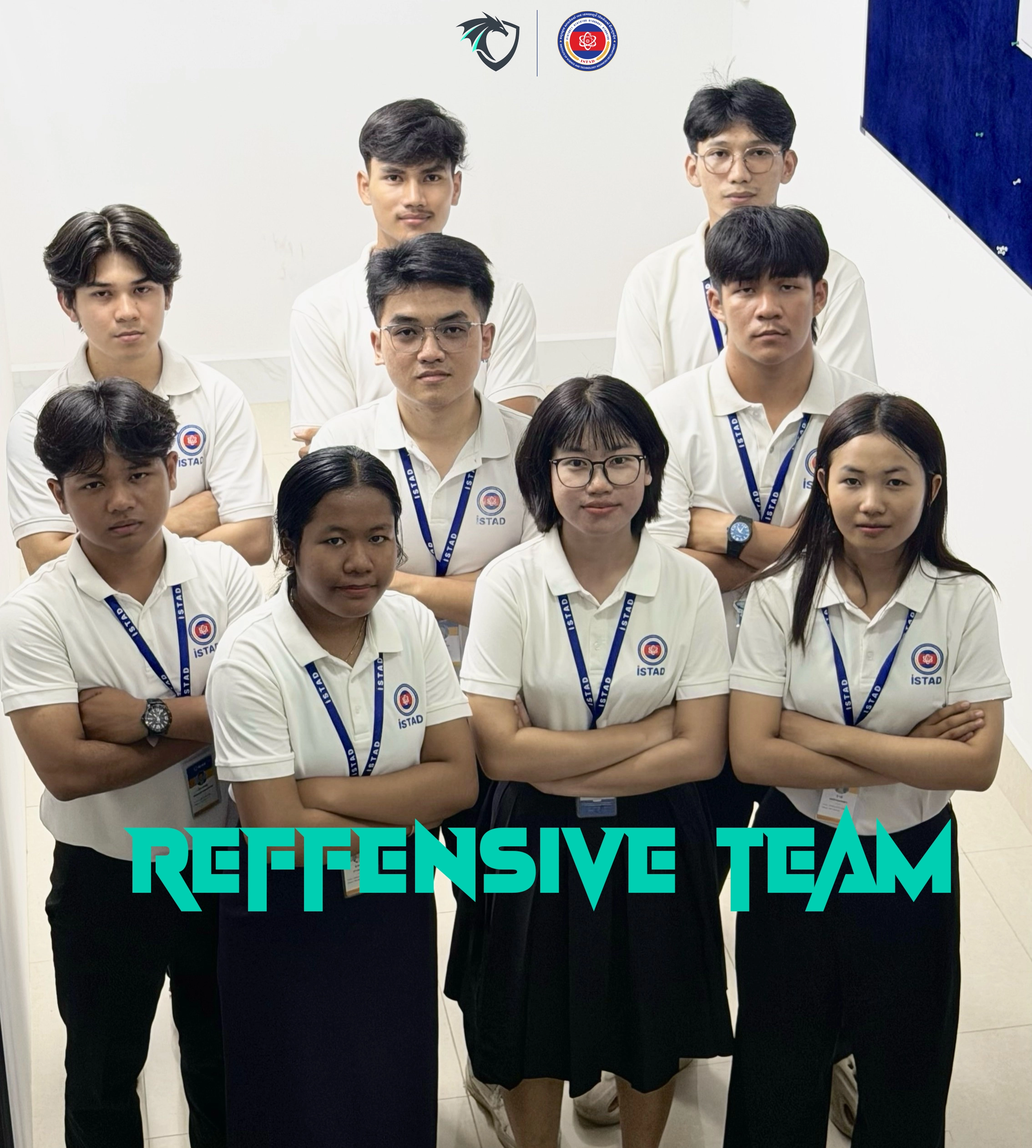
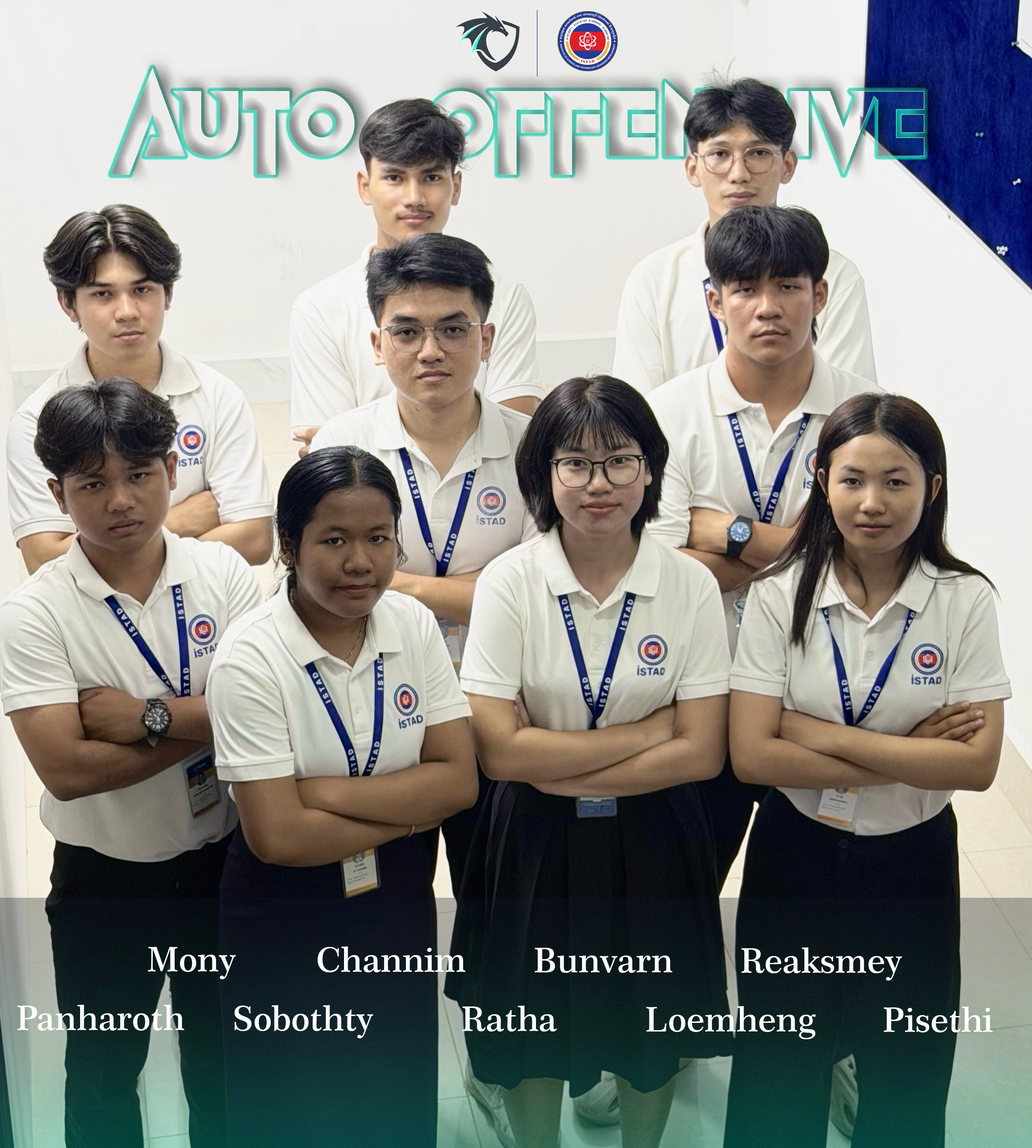
add new image

diff --git a/components/pages/homepage/teamshowcase.tsx b/components/pages/homepage/teamshowcase.tsx
@@ -170,7 +170,7 @@ export default function TeamShowcase() {
           </div>
 
           {/* Premium Established Badge */}
-          <div className="absolute -right-3 bottom-10 z-30">
+          {/* <div className="absolute -right-3 bottom-10 z-30">
             <div
               className="rounded-2xl border-2 border-white/90 px-6 py-4 dark:border-white/15"
               style={{
@@ -185,7 +185,7 @@ export default function TeamShowcase() {
                 2026
               </p>
             </div>
-          </div>
+          </div> */}
 
           {/* Decorative Top Right Accent */}
           <div
